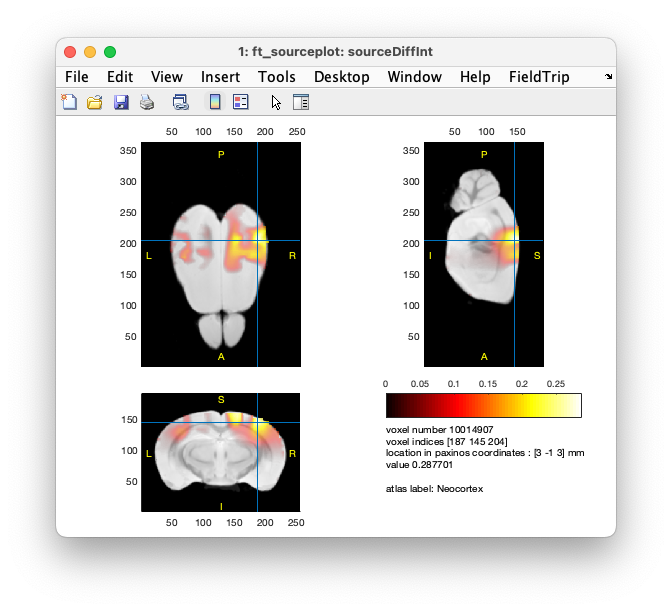
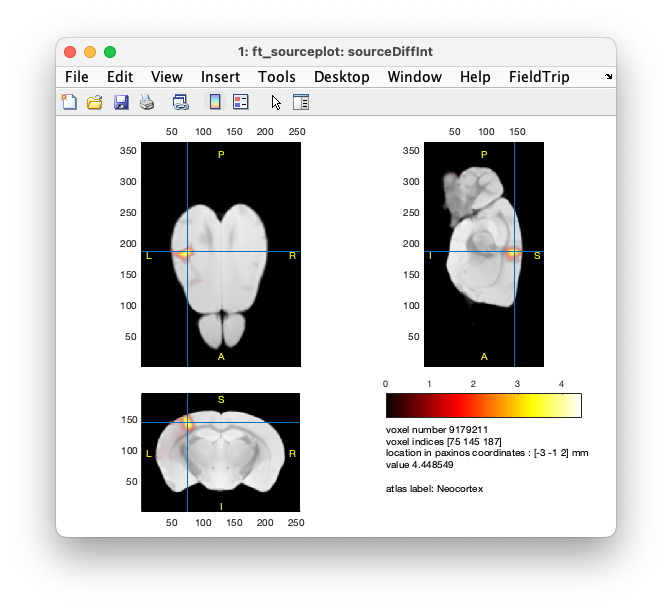
DOC - updated beamforming section and figure
- this also fixes the ordering of labels in the 3D electrode structure

diff --git a/tutorial/mouse_eeg.md b/tutorial/mouse_eeg.md
@@ -755,12 +755,15 @@ We start with a histogram of the grey-scale values
 
 From the histogram we can determine a threshold in between the two bumps and use that to make a binary image of the brain.
 
-    mri_resliced.brain = mri_resliced.anatomy>6000;
+    % start with a copy
+    mri_resliced_segmented = mri_resliced;
+
+    mri_resliced_segmented.brain = mri_resliced.anatomy>6000;
 
     se = strel('sphere', 9); % see "doc strel"
-    mri_resliced.skull = imdilate(mri_resliced.brain, se);
+    mri_resliced_segmented.skull = imdilate(mri_resliced.brain, se);
 
-    combined = mri_resliced.skull + mri_resliced.brain;
+    combined = mri_resliced_segmented.skull + mri_resliced_segmented.brain;
 
     figure
     for i=1:15
@@ -781,7 +784,7 @@ In the previous section we performed a segmentation to extract the brain and sku
     cfg             = [];
     cfg.tissue      = {'skull', 'brain'};  % value 1 is skull, value 2 is brain
     cfg.numvertices = [1500, 1500];
-    mesh            = ft_prepare_mesh(cfg, mri_resliced);
+    mesh            = ft_prepare_mesh(cfg, mri_resliced_segmented);
     
     figure
     ft_plot_mesh(mesh(1), 'facecolor', 'none', 'edgecolor', 'b')
@@ -817,7 +820,7 @@ After making up volume objects, we perform the **[ft_prepare_headmodel](/referen
               source: 2
                  mat: [5996x5996 double]
                 type: 'openmeeg'
-                unit: 'cm'
+                unit: 'mm'
                  cfg: [1x1 struct]
 
 ### Specification of 3D electrode positions
@@ -878,35 +881,36 @@ To confirm the alignment between the headmodel and electrode positions, we make 
 {% include image src="/assets/img/tutorial/mouse_eeg/figure31.png" width="500" %}
 _Figure: triangulated mesh of the skull with the electrodes, clearly not aligned_
 
-You see that this is not what you would expect as the electrode positions are not aligned with the skull surface. This is because they are not expressed in the correct coordinates. We can fix this by specifying the known location of the anatomical landmarks. We again use the **[ft_headcoordinates](/reference/utilities/ft_headcoordinates)** function with the input variables `bregma`, `lambda`, and `midsagittal`.
+You see that this is not what you would expect, as the electrode positions are totally not aligned with the skull surface. This is because they are not expressed in the correct coordinates. We can fix this by using the known location of the anatomical landmarks. We again use the **[ft_headcoordinates](/reference/utilities/ft_headcoordinates)** function with the input variables `bregma`, `lambda`, and `midsagittal`.
 
 - The bregma point should be at at [0, 0, 0].
 - The lambda point should be at [0, y, 0] aligned with the anterio-parietal axis.
 - The midsagittal point should be at a location inside the brain compared to the electrode array, so a little bit down.
 
+The bregma and lambda points can be found by averaging the electrode positions on their left and right.
 
-    bregma      = mean(loc(11:12, :));
-    lambda      = mean(loc([27 28 33 34], :));
-    midsagittal = bregma + [0 0 1];
+    bregma      = mean(loc(11:12, :));      % in between FC2 and FC1
+    lambda      = mean(loc([27 28], :));    % in between P2 and P1
+    midsagittal = bregma + [0 0 1];         % in the positive z direction
 
     elec2paxinos = ft_headcoordinates(bregma, lambda, midsagittal, 'paxinos');
 
 Subsequently, we can apply the transformation matrix to the electrode position. We first organize the electrode positions in a MATLAB structure, in line with the FieldTrip [description of electrodes](/faq/how_are_electrodes_magnetometers_or_gradiometers_described).
 
     elec = [];
-    elec.unit = 'mm';
-    elec.elecpos = loc;
-    elec.label = {
-        'FP2';'FP1';
-        'AF8';'AF7';'AF4';'AF3';...
-        'F6';'F5';'F2';'F1';
-        'FC6';'FC5';'FC2';'FC1';...
-        'C6';'C5';'C4';'C3';'C2';'C1';
-        'CP6';'CP5';'CP4';'CP3';'CP2';'CP1';...
-        'P6';'P5';'P4';'P3';'P2';'P1';
-        'PO8';'PO7';'PO4';'PO3';
-        'O2';'O1'
-      };
+    elec.elecpos  = loc;
+    elec.unit     = 'mm';
+    elec.label    = {
+      'FP2';'FP1';
+      'AF4';'AF3';'AF8';'AF7';...
+      'F2';'F1';'F6';'F5';
+      'FC2';'FC1';'FC6';'FC5';...
+      'C2';'C1';'C4';'C3';'C6';'C5';
+      'CP2';'CP1';'CP4';'CP3';'CP6';'CP5';...
+      'P2';'P1';'P4';'P3';'P6';'P5';
+      'PO4';'PO3';'PO8';'PO7';
+      'O2';'O1'
+    };
 
     % apply the transformation
     elec_realigned = ft_transform_geometry(elec2paxinos, elec);
@@ -993,18 +997,12 @@ Before computing the cross-spectral density matrix, we make a subselection of th
 
     % make selections in the data
     cfg          = [];
-    cfg.toilim   = [-0.5995 -0.1]; % aim for exactly 1000 samples
-    cfg.channel  = {'all', '-VPM'};
+    cfg.toilim   = [-0.5500 -0.0505]; % aim for exactly 1000 samples
     dataPre      = ft_redefinetrial(cfg, data_reref);
 
     cfg          = [];
-    cfg.toilim   = [0.1 0.5995]; % aim for exactly 1000 samples
-    cfg.channel  = {'all', '-VPM'};
+    cfg.toilim   = [-0.0500 0.4495]; % aim for exactly 1000 samples
     dataPost     = ft_redefinetrial(cfg, data_reref);
-
-    cfg = [];
-    cfg.keepsampleinfo = 'no';
-    dataAll = ft_appenddata(cfg, dataPre, dataPost)
 
 The cross-spectrum is computed from the Fourier transformed data and returned as output by **[ft_freqanalysis](/reference/ft_freqanalysis)** when we specify `cfg.output = 'powandcsd'`. The frequency of interest is 10 Hz and we use multitapering with a smoothing window of +/-4 Hz:
 
@@ -1022,13 +1020,6 @@ The cross-spectrum is computed from the Fourier transformed data and returned as
     cfg.tapsmofrq = 4;
     cfg.foilim    = [10 10];
     freqPost      = ft_freqanalysis(cfg, dataPost);
-
-    cfg           = [];
-    cfg.method    = 'mtmfft';
-    cfg.output    = 'powandcsd';
-    cfg.tapsmofrq = 4;
-    cfg.foilim    = [10 10];
-    freqAll       = ft_freqanalysis(cfg, dataAll);
 
 To check the selected data and computations so far, we can compute and plot the difference between the power spectrum in the Post and Pre time windows as dB change using **[ft_math](/reference/ft_math)**. Note that for frequency data without time axis (as here) you should _not_ use **[ft_topoplotTFR](/reference/ft_topoplotTFR)** for plotting, but **[ft_topoplotER](/reference/ft_topoplotER)** (and idem for multiplot and singleplot).
 
@@ -1055,19 +1046,15 @@ Using the covariance matrices and the leadfield matrices, a spatial filtering is
     cfg.sourcemodel       = leadfield;
     cfg.headmodel         = headmodel;
     cfg.dics.projectnoise = 'yes';
+    cfg.dics.kappa        = 37;  % the rank of the EEG data
     cfg.dics.lambda       = '5%';
-    cfg.dics.keepfilter   = 'yes';
+    cfg.dics.keepfilter   = 'no';
     cfg.dics.realfilter   = 'yes';
-    sourceAll             = ft_sourceanalysis(cfg, freqAll);
-
-    % use the common filter approach to make a clean statistical contrast
-    cfg.sourcemodel.filter  = sourceAll.avg.filter;
     sourcePre             = ft_sourceanalysis(cfg, freqPre);
     sourcePost            = ft_sourceanalysis(cfg, freqPost);
     
     % the units are not stored, and when guessed later on will be incorrect
     % copy the 'mm' over from the leadfield and sourcemodel structures
-    sourceAll.unit  = leadfield.unit;
     sourcePre.unit  = leadfield.unit;
     sourcePost.unit = leadfield.unit;
 
